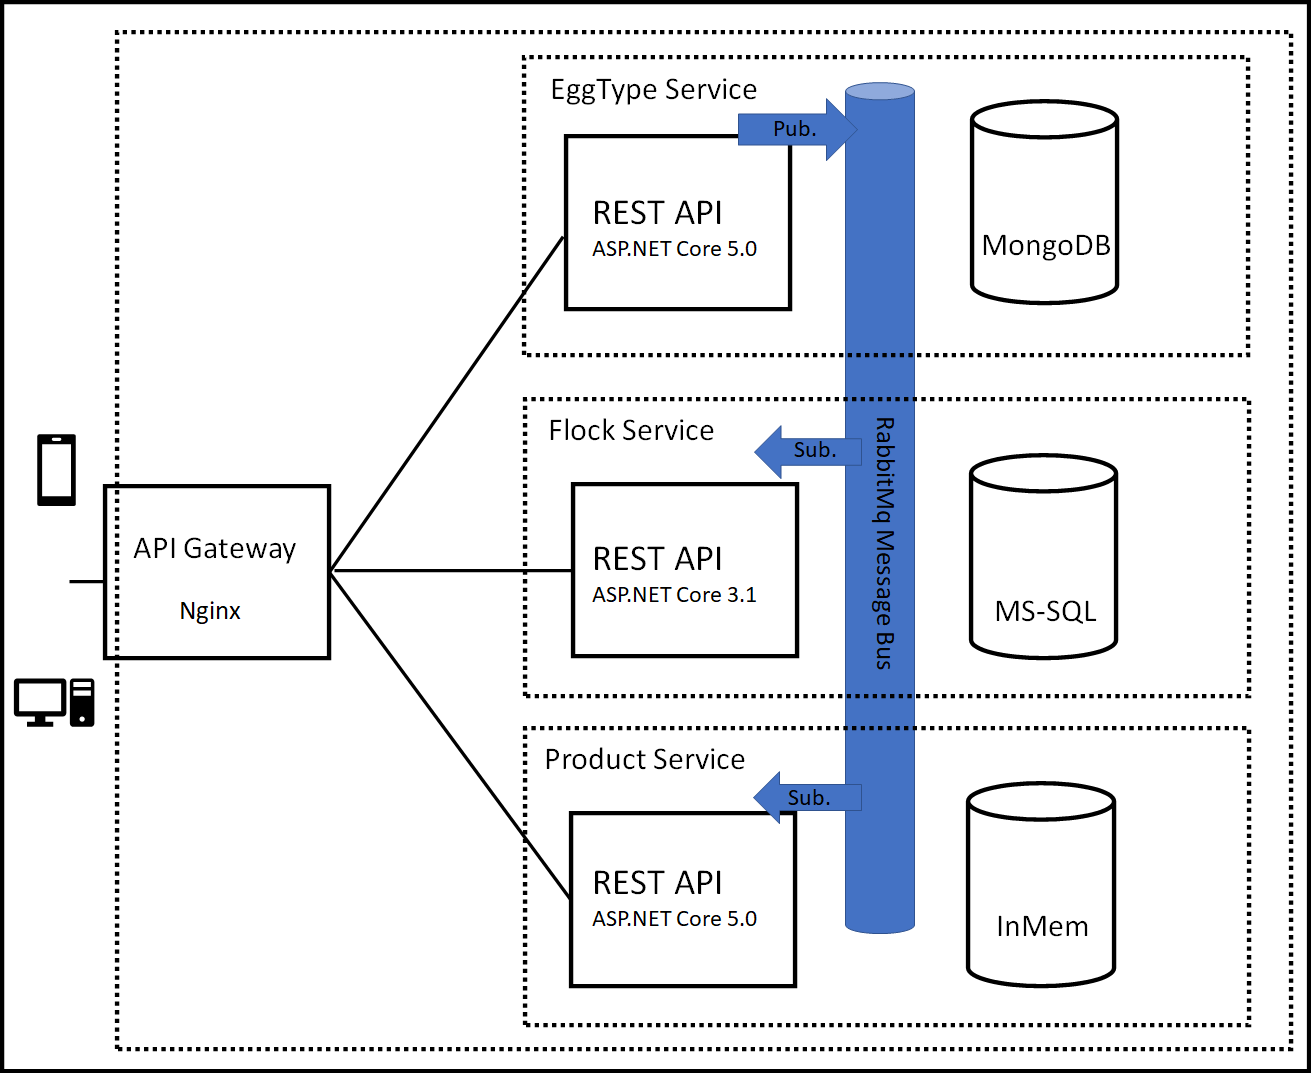
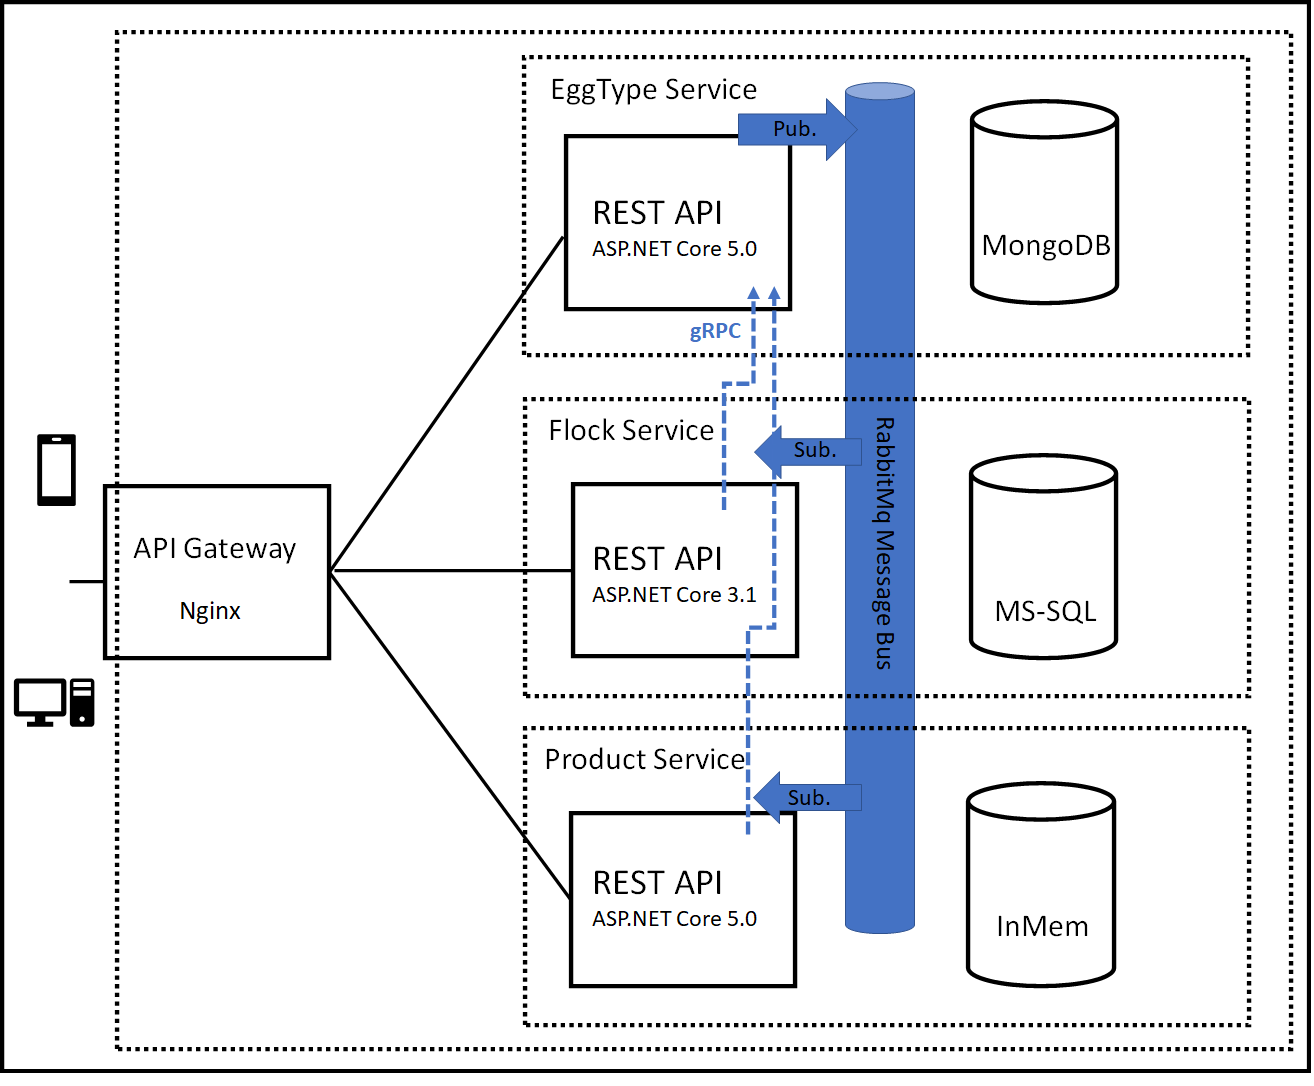
toegevoegd: via gRPC alle eggTypes inladen vanuit EggType Service in andere services bij opstarten

diff --git a/FlockService/FlockService/Data/PrepDb.cs b/FlockService/FlockService/Data/PrepDb.cs
@@ -1,4 +1,5 @@
 using FlockService.Models;
+using FlockService.SyncDataServices.Grpc;
 using Microsoft.AspNetCore.Builder;
 using Microsoft.EntityFrameworkCore;
 using Microsoft.Extensions.DependencyInjection;
@@ -15,12 +16,18 @@ namespace FlockService.Data
         {
             using (var serviceScope = app.ApplicationServices.CreateScope())
             {
-                SeedData(serviceScope.ServiceProvider.GetService<FlockContext>(), isProductionEnv);
+                var grpcClient = serviceScope.ServiceProvider.GetService<IEggTypeDataClient>();
+
+                var eggTypes = grpcClient.ReturnAllEggTypes();
+
+                SeedData(serviceScope.ServiceProvider.GetService<FlockContext>(),
+                    serviceScope.ServiceProvider.GetService<IFlockRepo>(),
+                    isProductionEnv, eggTypes);
             }
 
         }
 
-        private static void SeedData(FlockContext context, bool isProd)
+        private static void SeedData(FlockContext context, IFlockRepo repo, bool isProd, IEnumerable<EggType> eggTypes)
         {
             if (isProd)
             {
@@ -45,12 +52,26 @@ namespace FlockService.Data
                 //zonder records in de EggTypes tabel goed.
                 //Ik gebruik echter een MS-SQL db en dan gaat het mis want de fk's ontbreken. Die voeg ik hieronder
                 //dus eerst toe.
-                
-                context.EggTypes.AddRange(
-                    new EggType() { Id = 1, ExternalId = 1, Description = "Bruin Bio" },
-                    new EggType() { Id = 2, ExternalId = 2, Description = "Wit" },
-                    new EggType() { Id = 3, ExternalId = 3, Description = "Vrije uitloop" }
-                    );
+
+                //context.EggTypes.AddRange(
+                //    new EggType() { Id = 1, ExternalId = 1, Description = "Bruin Bio" },
+                //    new EggType() { Id = 2, ExternalId = 2, Description = "Wit" },
+                //    new EggType() { Id = 3, ExternalId = 3, Description = "Vrije uitloop" }
+                //    );
+
+                //na toevoegen van de gRPC connectie kan bovenstaande uit en doe we dit voor de EggTypes:
+                foreach (var eggType in eggTypes)
+                {
+                    if (!repo.ExternalEggTypeIdExists(eggType.ExternalId))
+                    {
+                        repo.CreateEggType(eggType);
+                    }
+                    repo.SaveChanges();
+                }
+
+
+
+                //en Flocks:
 
                 context.Flocks.AddRange(
                     new Flock() { FlockCode = "1111-22", Description = "Bennekom stal", EggTypeId = 1 },

diff --git a/FlockService/FlockService/SyncDataServices/Grpc/EggTypeDataClient.cs b/FlockService/FlockService/SyncDataServices/Grpc/EggTypeDataClient.cs
@@ -1,0 +1,55 @@
+using AutoMapper;
+using EggTypeService;
+using FlockService.Models;
+using Grpc.Net.Client;
+using Microsoft.Extensions.Configuration;
+using System;
+using System.Collections.Generic;
+using System.Linq;
+using System.Net.Http;
+using System.Threading.Tasks;
+
+namespace FlockService.SyncDataServices.Grpc
+{
+    public class EggTypeDataClient : IEggTypeDataClient
+    {
+        private readonly IConfiguration _configuration;
+        private readonly IMapper _mapper;
+
+        public EggTypeDataClient(IConfiguration configuration, IMapper mapper)
+        {
+            _configuration = configuration;
+            _mapper = mapper;
+        }
+
+        public IEnumerable<EggType> ReturnAllEggTypes()
+        {
+            Console.WriteLine($"--> Calling GRPC Service {_configuration["GrpcEggType"]}");
+
+            //afwijking tov Les Jackson ivm gRPC die SSL nodig heeft en dat krijg ik niet voor elkaar.
+            //daarom stel ik in dat gRPC ook met invalid ssl certs kan
+            //zie verder: https://docs.microsoft.com/en-us/aspnet/core/grpc/troubleshoot?view=aspnetcore-5.0
+
+            var httpHandler = new HttpClientHandler();
+            // Return `true` to allow certificates that are untrusted/invalid
+            httpHandler.ServerCertificateCustomValidationCallback =
+                HttpClientHandler.DangerousAcceptAnyServerCertificateValidator;
+            var channel = GrpcChannel.ForAddress(_configuration["GrpcEggType"], new GrpcChannelOptions { HttpHandler = httpHandler });
+            
+            
+            var client = new GrpcEggType.GrpcEggTypeClient(channel);
+            var request = new GetAllRequest();
+
+            try
+            {
+                var reply = client.GetAllEggTypes(request);
+                return _mapper.Map<IEnumerable<EggType>>(reply.Eggtype);
+            }
+            catch (Exception ex)
+            {
+                Console.WriteLine($"--> Couldnot call GRPC Server {ex.Message}");
+                return null;
+            }
+        }
+    }
+}

diff --git a/ProductService/ProductService/SyncDataServices/Grpc/EggTypeDataClient.cs b/ProductService/ProductService/SyncDataServices/Grpc/EggTypeDataClient.cs
@@ -1,0 +1,54 @@
+using AutoMapper;
+using EggTypeService;
+using Grpc.Net.Client;
+using Microsoft.Extensions.Configuration;
+using ProductService.Models;
+using System;
+using System.Collections.Generic;
+using System.Linq;
+using System.Net.Http;
+using System.Threading.Tasks;
+
+namespace ProductService.SyncDataServices.Grpc
+{
+    public class EggTypeDataClient : IEggTypeDataClient
+    {
+        private readonly IConfiguration _configuration;
+        private readonly IMapper _mapper;
+
+        public EggTypeDataClient(IConfiguration configuration, IMapper mapper)
+        {
+            _configuration = configuration;
+            _mapper = mapper;
+        }
+
+        public IEnumerable<EggType> ReturnAllEggTypes()
+        {
+            Console.WriteLine($"--> Calling GRPC Service {_configuration["GrpcEggType"]}");
+
+            //afwijking tov Les Jackson ivm gRPC die SSL nodig heeft en dat krijg ik niet voor elkaar.
+            //daarom stel ik in dat gRPC ook met invalid ssl certs kan
+            //zie verder: https://docs.microsoft.com/en-us/aspnet/core/grpc/troubleshoot?view=aspnetcore-5.0
+
+            var httpHandler = new HttpClientHandler();
+            // Return `true` to allow certificates that are untrusted/invalid
+            httpHandler.ServerCertificateCustomValidationCallback =
+                HttpClientHandler.DangerousAcceptAnyServerCertificateValidator;
+            var channel = GrpcChannel.ForAddress(_configuration["GrpcEggType"], new GrpcChannelOptions { HttpHandler = httpHandler });
+            
+            var client = new GrpcEggType.GrpcEggTypeClient(channel);
+            var request = new GetAllRequest();
+
+            try
+            {
+                var reply = client.GetAllEggTypes(request);
+                return _mapper.Map<IEnumerable<EggType>>(reply.Eggtype);
+            }
+            catch (Exception ex)
+            {
+                Console.WriteLine($"--> Couldnot call GRPC Server {ex.Message}");
+                return null;
+            }
+        }
+    }
+}

diff --git a/ProductService/ProductService/Data/PrepDb.cs b/ProductService/ProductService/Data/PrepDb.cs
@@ -6,6 +6,7 @@ using System;
 using System.Collections.Generic;
 using System.Linq;
 using System.Threading.Tasks;
+using ProductService.SyncDataServices.Grpc;
 
 namespace ProductService.Data
 {
@@ -15,18 +16,35 @@ namespace ProductService.Data
         {
             using (var serviceScope = app.ApplicationServices.CreateScope())
             {
-                SeedData(serviceScope.ServiceProvider.GetService<ProductContext>(), isProductionEnv);
+                var grpcClient = serviceScope.ServiceProvider.GetService<IEggTypeDataClient>();
+
+                var eggTypes = grpcClient.ReturnAllEggTypes();
+
+                SeedData(serviceScope.ServiceProvider.GetService<ProductContext>(),
+                    serviceScope.ServiceProvider.GetService<IProductRepo>(),
+                    isProductionEnv, eggTypes);
             }
 
         }
 
-        private static void SeedData(ProductContext context, bool isProd)
+        private static void SeedData(ProductContext context, IProductRepo repo, bool isProd, IEnumerable<EggType> eggTypes)
         {
 
             if (!context.Products.Any())
             {
                 Console.WriteLine("--> Seeding Data...");
 
+                //EggTypes
+                foreach (var eggType in eggTypes)
+                {
+                    if (!repo.ExternalEggTypeIdExists(eggType.ExternalId))
+                    {
+                        repo.CreateEggType(eggType);
+                    }
+                    repo.SaveChanges();
+                }
+
+                //Products
                 context.Products.AddRange(
                     new Product() { ProductCode = "1111-22", isActive = true, EggTypeId = 1 },
                     new Product() { ProductCode = "1111-26", isActive = true , EggTypeId = 3 },

diff --git a/EggTypeService/EggTypeService/SyncDataServices/Grpc/GrpcEggTypeService.cs b/EggTypeService/EggTypeService/SyncDataServices/Grpc/GrpcEggTypeService.cs
@@ -1,0 +1,35 @@
+using AutoMapper;
+using EggTypeService.Data;
+using Grpc.Core;
+using System;
+using System.Collections.Generic;
+using System.Linq;
+using System.Threading.Tasks;
+
+namespace EggTypeService.SyncDataServices.Grpc
+{
+    public class GrpcEggTypeService : GrpcEggType.GrpcEggTypeBase
+    {
+        private readonly IEggTypeRepo _repository;
+        private readonly IMapper _mapper;
+
+        public GrpcEggTypeService(IEggTypeRepo repository, IMapper mapper)
+        {
+            _repository = repository;
+            _mapper = mapper;
+        }
+
+        public override Task<EggTypeResponse> GetAllEggTypes(GetAllRequest request, ServerCallContext context)
+        {
+            var response = new EggTypeResponse();
+            var eggTypes = _repository.GetAllEggTypes();
+
+            foreach (var eggType in eggTypes)
+            {
+                response.Eggtype.Add(_mapper.Map<GrpcEggTypeModel>(eggType));
+            }
+
+            return Task.FromResult(response);
+        }
+    }
+}

diff --git a/EggTypeService/EggTypeService/Startup.cs b/EggTypeService/EggTypeService/Startup.cs
@@ -19,6 +19,7 @@ using MongoDB.Bson;
 using MongoDB.Driver;
 using Newtonsoft.Json.Serialization;
 using EggTypeService.AsyncDataServices;
+using EggTypeService.SyncDataServices.Grpc;
 
 namespace EggTypeService
 {
@@ -50,6 +51,8 @@ namespace EggTypeService
 
 			services.AddScoped<IEggTypeRepo, MongoEggTypeRepo>();
             services.AddSingleton<IMessageBusClient, MessageBusClient>();
+            
+            services.AddGrpc();
 
             services.AddHttpClient<IFlockDataClient, HttpFlockDataClient>();
 
@@ -87,6 +90,8 @@ namespace EggTypeService
             app.UseEndpoints(endpoints =>
             {
                 endpoints.MapControllers();
+                endpoints.MapGrpcService<GrpcEggTypeService>();
+
             });
 
             PrepDb.PrepPopulation(app, _env.IsProduction());

diff --git a/ProductService/ProductService/Profiles/ProductsProfile.cs b/ProductService/ProductService/Profiles/ProductsProfile.cs
@@ -1,4 +1,5 @@
 using AutoMapper;
+using EggTypeService;
 using ProductService.Dtos;
 using ProductService.Models;
 using System;
@@ -22,6 +23,9 @@ namespace ProductService.Profiles
             CreateMap<EggType, EggTypeReadDto>();
             CreateMap<EggTypePublishedDto, EggType>()
                 .ForMember(dest => dest.ExternalId, opt => opt.MapFrom(src => src.Id)); // expliciet aangeven dat de externalId van EggType komt vanuit EggTypePublishedDto
+            CreateMap<GrpcEggTypeModel, EggType>()
+               .ForMember(dest => dest.ExternalId, opt => opt.MapFrom(src => src.EggTypeId)) // expliciet aangeven dat de externalId van EggType komt vanuit EggTypePublishedDto
+               .ForMember(dest => dest.Id, opt => opt.MapFrom(src => src.EggTypeId));
         }
     }
 }

diff --git a/FlockService/FlockService/Profiles/FlocksProfile.cs b/FlockService/FlockService/Profiles/FlocksProfile.cs
@@ -1,4 +1,5 @@
 using AutoMapper;
+using EggTypeService;
 using FlockService.Dtos;
 using FlockService.Models;
 using System;
@@ -22,6 +23,9 @@ namespace FlockService.Profiles
             CreateMap<EggType, EggTypeReadDto>();
             CreateMap<EggTypePublishedDto, EggType>()
                 .ForMember(dest => dest.ExternalId, opt => opt.MapFrom(src => src.Id)); // expliciet aangeven dat de externalId van EggType komt vanuit EggTypePublishedDto
+            CreateMap<GrpcEggTypeModel, EggType>()
+                .ForMember(dest => dest.ExternalId, opt => opt.MapFrom(src => src.EggTypeId)) // expliciet aangeven dat de externalId van EggType komt vanuit EggTypePublishedDto
+                .ForMember(dest => dest.Id, opt => opt.MapFrom(src => src.EggTypeId));
         }
     }
 }

diff --git a/ProductService/ProductService/Startup.cs b/ProductService/ProductService/Startup.cs
@@ -15,6 +15,7 @@ using Newtonsoft.Json.Serialization;
 using ProductService.Data;
 using ProductService.EventProcessing;
 using ProductService.AsyncDataServices;
+using ProductService.SyncDataServices.Grpc;
 
 namespace ProductService
 {
@@ -46,6 +47,7 @@ namespace ProductService
             services.AddSingleton<IEventProcessor, EventProcessor>();
             services.AddAutoMapper(AppDomain.CurrentDomain.GetAssemblies());
             services.AddHostedService<MessageBusSubscriber>();
+            services.AddScoped<IEggTypeDataClient, EggTypeDataClient>();
         }
 
         // This method gets called by the runtime. Use this method to configure the HTTP request pipeline.

diff --git a/FlockService/FlockService/Startup.cs b/FlockService/FlockService/Startup.cs
@@ -15,6 +15,7 @@ using Newtonsoft.Json.Serialization;
 using FlockService.Data;
 using FlockService.EventProcessing;
 using FlockService.AsyncDataServices;
+using FlockService.SyncDataServices.Grpc;
 
 namespace FlockService
 {
@@ -49,6 +50,7 @@ namespace FlockService
             services.AddSingleton<IEventProcessor, EventProcessor>();
             services.AddAutoMapper(AppDomain.CurrentDomain.GetAssemblies());
             services.AddHostedService<MessageBusSubscriber>();
+            services.AddScoped<IEggTypeDataClient, EggTypeDataClient>();
 
         }
 

diff --git a/ProductService/ProductService/Controllers/EggTypesController.cs b/ProductService/ProductService/Controllers/EggTypesController.cs
@@ -20,7 +20,6 @@ namespace ProductService.Controllers
         {
             _repository = repository;
             _mapper = mapper;
-
         }
 
         [HttpGet]
@@ -30,7 +29,6 @@ namespace ProductService.Controllers
             var eggTypeItems = _repository.GetAllEggTypes();
 
             return Ok(_mapper.Map<IEnumerable<EggTypeReadDto>>(eggTypeItems));
-
         }
 
         [HttpPost]

diff --git a/EggTypeService/EggTypeService/Profiles/EggTypesProfile.cs b/EggTypeService/EggTypeService/Profiles/EggTypesProfile.cs
@@ -17,6 +17,8 @@ namespace EggTypeService.Profiles
             CreateMap<EggType, EggTypeReadDto>();
             CreateMap<EggTypeCreateDto, EggType>();
             CreateMap<EggTypeReadDto, EggTypePublishedDto>();
+            CreateMap<EggType, GrpcEggTypeModel>()
+                .ForMember(dest => dest.EggTypeId, opt => opt.MapFrom(src => src.Id));
         }
     }
 }
